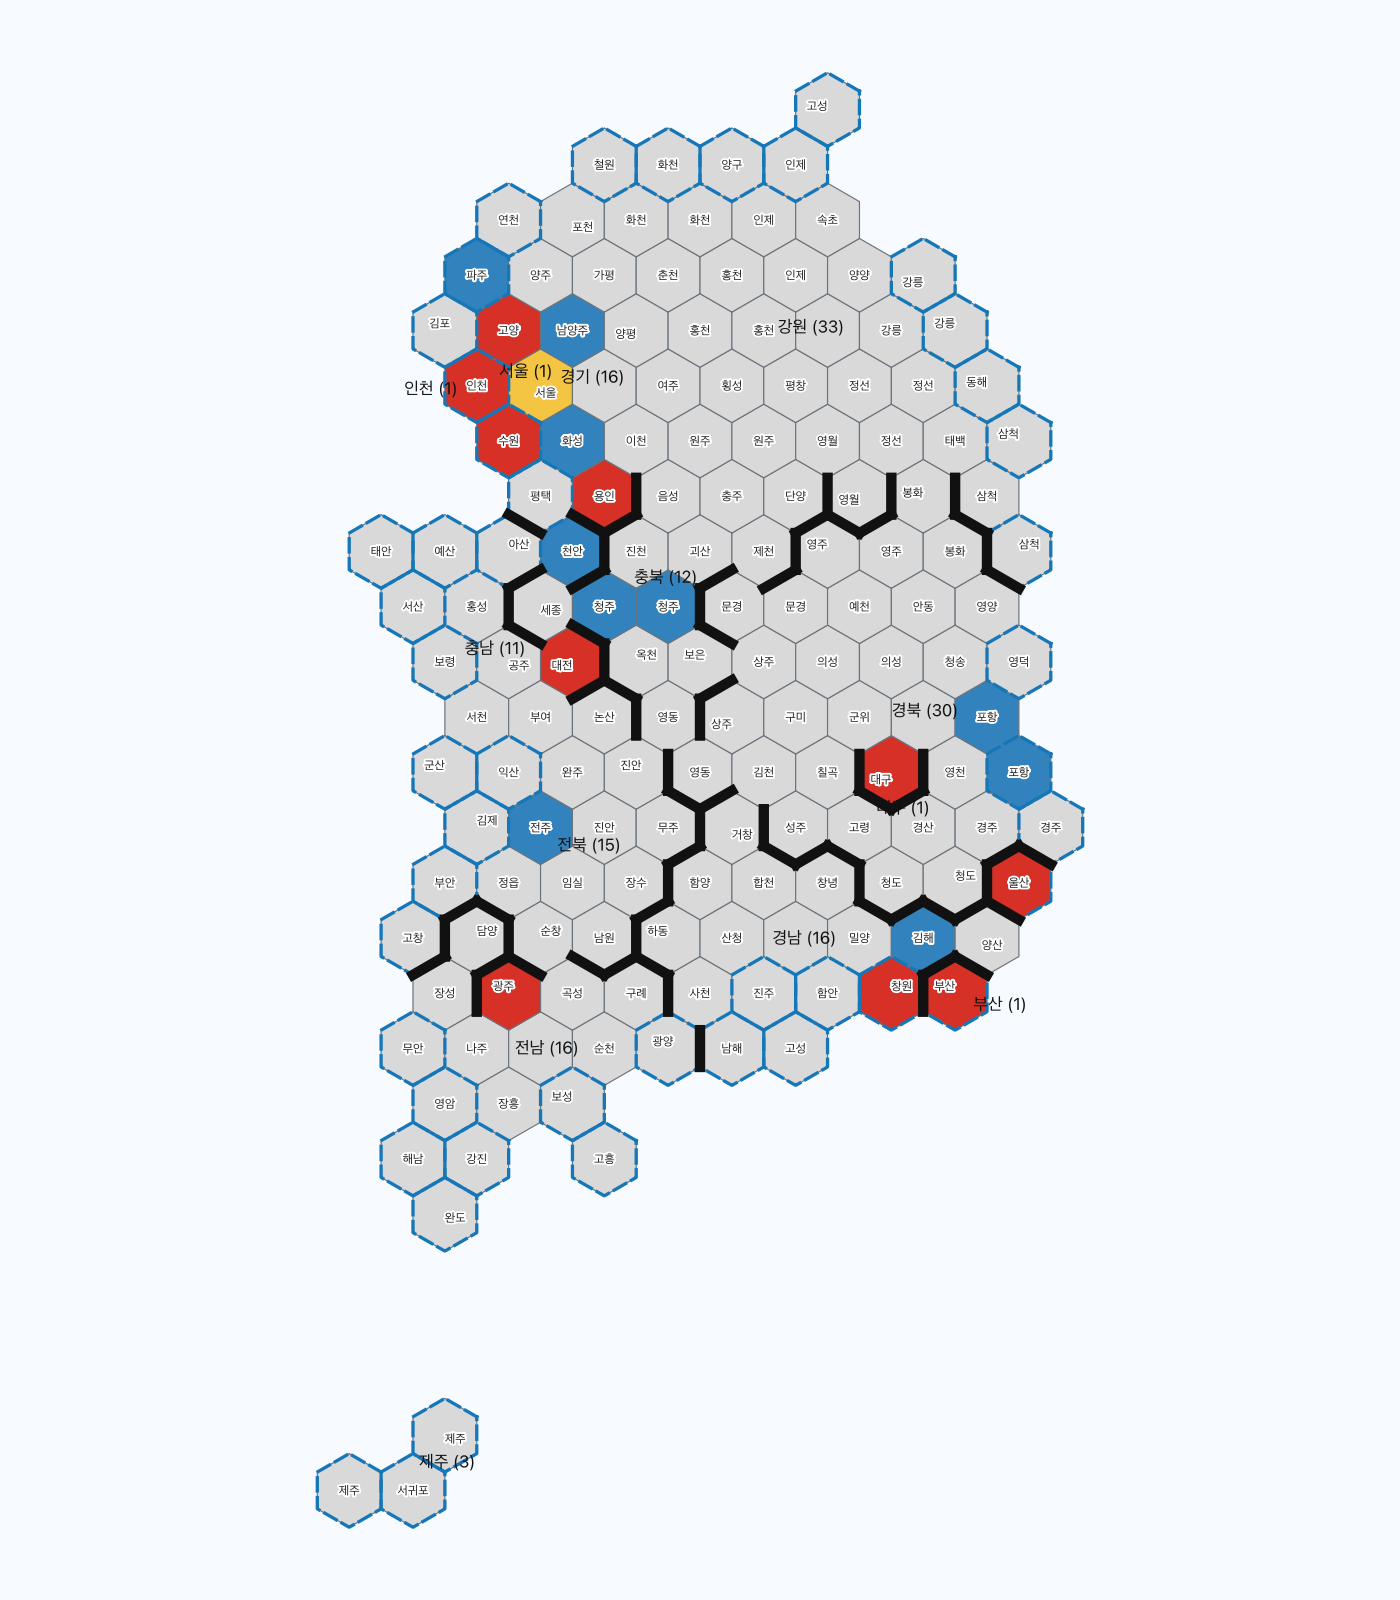
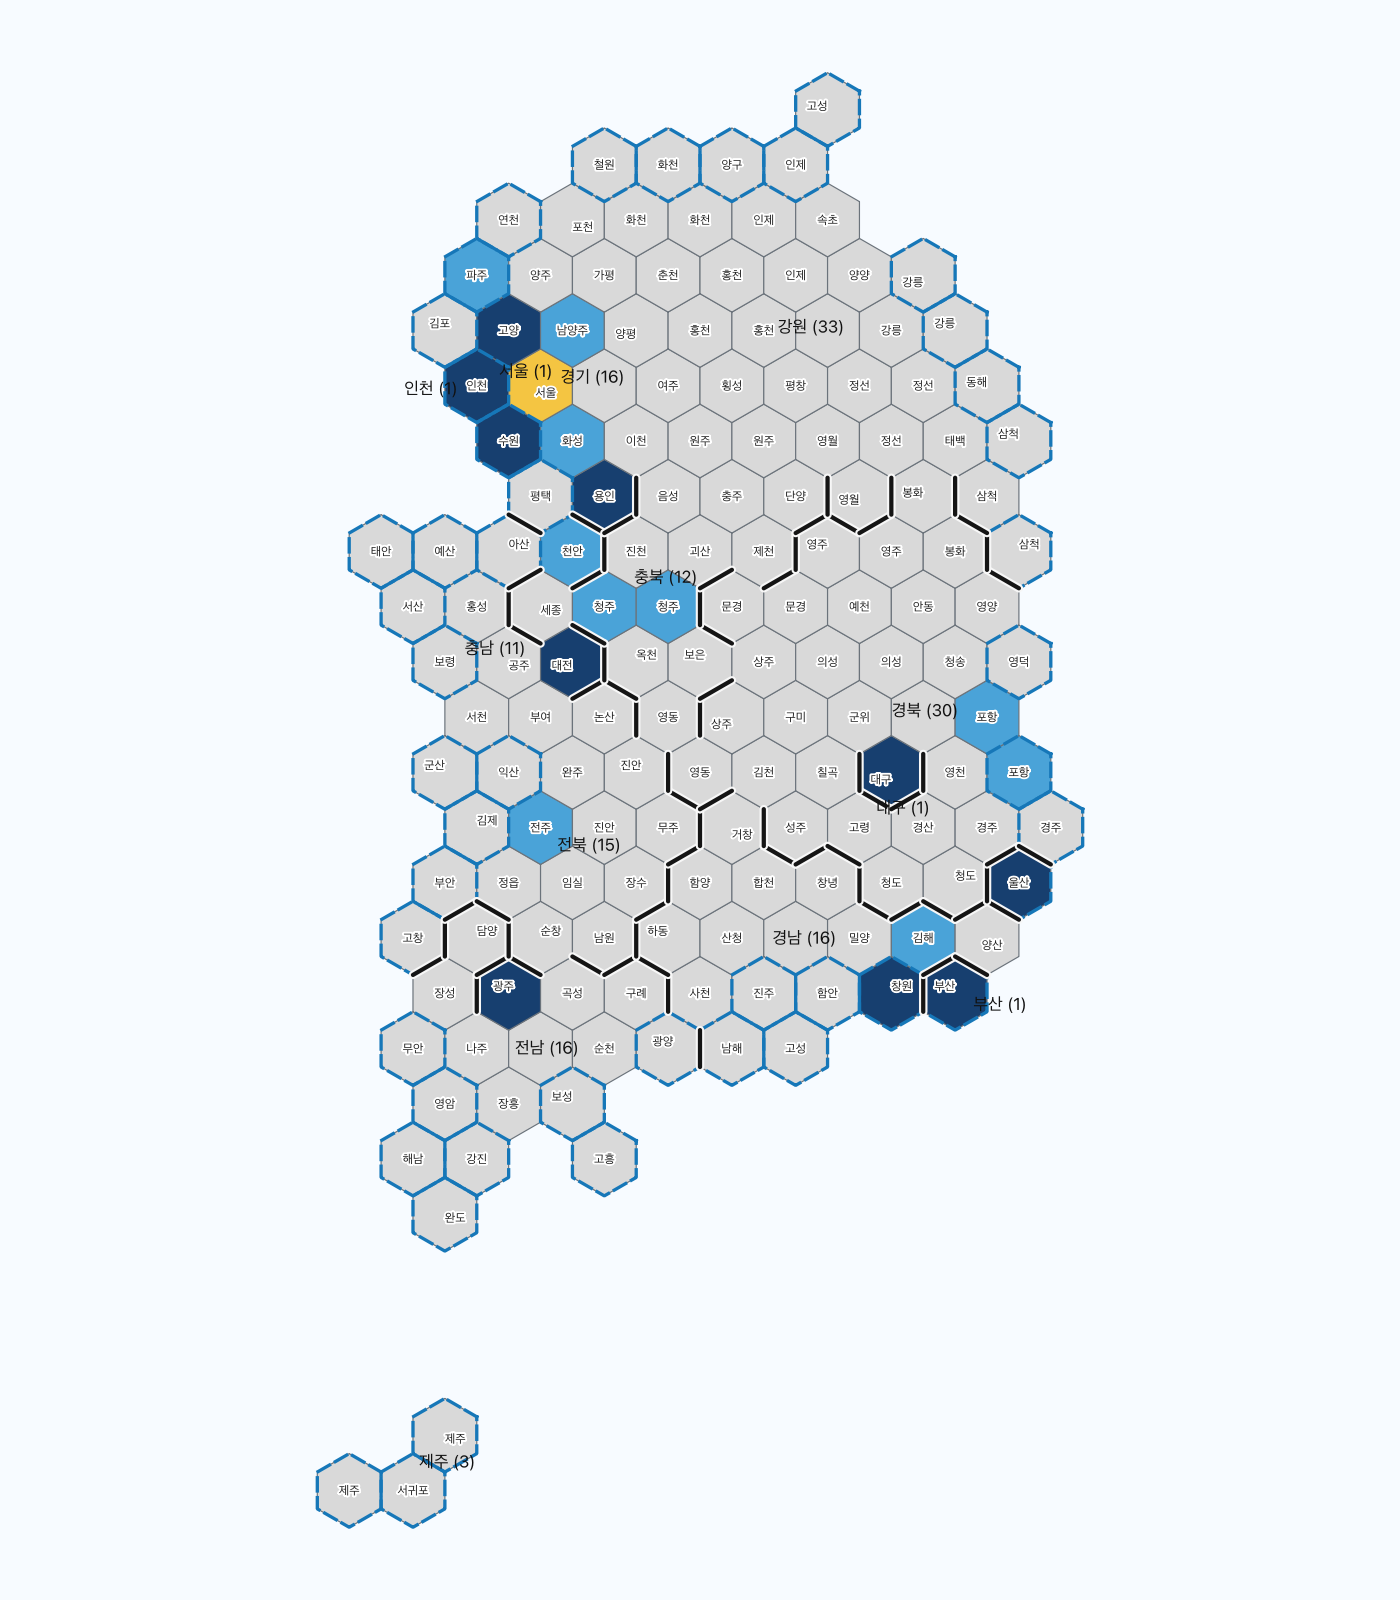
Render admin borders above tile fills

diff --git a/AtlasMap/scripts/validate_korea_map.py b/AtlasMap/scripts/validate_korea_map.py
@@ -332,6 +332,19 @@ class AtlasKoreaValidate(QgsProcessingAlgorithm):
             actual_map_classes == expected_map_classes,
             f"actual={sorted(actual_map_classes)}",
         )
+        colors = settings["city_classification"]["colors"]
+
+        def relative_luminance(hex_color):
+            values = [int(hex_color.lstrip("#")[i:i + 2], 16) / 255.0 for i in (0, 2, 4)]
+            linear = [value / 12.92 if value <= 0.04045 else ((value + 0.055) / 1.055) ** 2.4
+                      for value in values]
+            return 0.2126 * linear[0] + 0.7152 * linear[1] + 0.0722 * linear[2]
+
+        check(
+            "Metropolis fill darker than city fill",
+            relative_luminance(colors["metropolis"]) < relative_luminance(colors["city"]),
+            f"city={colors['city']}, metropolis={colors['metropolis']}",
+        )
 
         border_layer = QgsVectorLayer(
             f"{gpkg}|layername=admin1_tile_borders", "admin1_tile_borders", "ogr"
@@ -419,6 +432,7 @@ class AtlasKoreaValidate(QgsProcessingAlgorithm):
             re.compile(r"(?<![A-Za-z])[A-Za-z]:[\\/](?![\\/])[^\s<]+"),
         ]
         path_hits = []
+        border_above_tiles = False
         files_to_scan = sorted((root / "scripts").glob("*"))
         for path in files_to_scan:
             if not path.is_file():
@@ -433,10 +447,21 @@ class AtlasKoreaValidate(QgsProcessingAlgorithm):
                     if not member.endswith(".qgs"):
                         continue
                     text = archive.read(member).decode("utf-8", errors="replace")
+                    border_position = text.find('name="Game admin borders"')
+                    tile_position = text.find('name="Korea game tiles"')
+                    border_above_tiles = (
+                        border_position >= 0 and tile_position >= 0
+                        and border_position < tile_position
+                    )
                     for line_number, line in enumerate(text.splitlines(), 1):
                         if any(pattern.search(line) for pattern in absolute_patterns):
                             path_hits.append(f"{project_path.name}:{line_number}")
         check("Relative shared paths", not path_hits, f"absolute_path_hits={path_hits}")
+        check(
+            "Admin border layer renders above tile fills",
+            border_above_tiles,
+            f"border_above_tiles={border_above_tiles}",
+        )
 
         lines = [
             "# Atlas Korea validation report", "",

diff --git a/AtlasMap/scripts/build_korea_map.py b/AtlasMap/scripts/build_korea_map.py
@@ -38,6 +38,7 @@ from qgis.core import (
     QgsProperty,
     QgsRectangle,
     QgsRendererCategory,
+    QgsSimpleLineSymbolLayer,
     QgsSingleSymbolRenderer,
     QgsTextBufferSettings,
     QgsTextFormat,
@@ -1106,11 +1107,21 @@ class AtlasKoreaBuild(QgsProcessingAlgorithm):
                 )
             )
         )
-        persisted_borders.setRenderer(
-            QgsSingleSymbolRenderer(
-                QgsLineSymbol.createSimple({"line_color": "#111111", "line_width": "2.2"})
+        border_symbol = QgsLineSymbol.createSimple(
+            {
+                "line_color": "#f7f7f7", "line_width": "1.8",
+                "capstyle": "round", "joinstyle": "round",
+            }
+        )
+        border_symbol.appendSymbolLayer(
+            QgsSimpleLineSymbolLayer.create(
+                {
+                    "line_color": "#151515", "line_width": "0.9",
+                    "capstyle": "round", "joinstyle": "round",
+                }
             )
         )
+        persisted_borders.setRenderer(QgsSingleSymbolRenderer(border_symbol))
         persisted_coast.setRenderer(
             QgsSingleSymbolRenderer(
                 QgsLineSymbol.createSimple(
@@ -1167,11 +1178,11 @@ class AtlasKoreaBuild(QgsProcessingAlgorithm):
         project.addMapLayer(persisted_admin_labels, False)
         project.addMapLayer(persisted_borders, False)
         project.addMapLayer(persisted_coast, False)
-        game_group.addLayer(persisted_tiles)
-        game_group.addLayer(persisted_cities)
         game_group.addLayer(persisted_admin_labels)
+        game_group.addLayer(persisted_cities)
         game_group.addLayer(persisted_borders)
         game_group.addLayer(persisted_coast)
+        game_group.addLayer(persisted_tiles)
         project.addMapLayer(persisted_admin, False)
         project.addMapLayer(persisted_candidates, False)
         project.addMapLayer(persisted_naming, False)

diff --git a/AtlasMap/README.md b/AtlasMap/README.md
@@ -25,9 +25,11 @@ Remaining tiles use their largest-overlap same-owner unit. City class and
 capital color follow the final tile name, not an independently located point.
 
 The map uses exactly four tile fill classes: ordinary administrative tile,
-city (500,000-999,999), metropolis (1,000,000+), and capital. Ordinary tiles do
+light-blue city (500,000-999,999), dark-navy metropolis (1,000,000+), and
+gold capital. Ordinary tiles do
 not receive separate province colors. Thick dark lines between tiles with
-different `admin1_code` values carry the administrative-boundary information;
+different `admin1_code` values carry the administrative-boundary information.
+Those lines use a light casing plus a dark core and render above tile fills;
 thin tile outlines and dashed coastal outlines remain separate visual layers.
 
 ## Quick start (macOS)

diff --git a/AtlasMap/reports/validation_report.md b/AtlasMap/reports/validation_report.md
@@ -1,6 +1,6 @@
 # Atlas Korea validation report
 
-Generated: 2026-07-15T00:25:31.676424+00:00
+Generated: 2026-07-15T00:29:40.623723+00:00
 
 Overall result: **PASS**
 
@@ -30,6 +30,7 @@ Overall result: **PASS**
 | Exactly one capital tile | PASS | tiles=1, markers=1 |
 | City class follows final same-owner tile name | PASS | mismatches=[] |
 | Exactly four tile color classes | PASS | actual=['admin', 'capital', 'city', 'metropolis'] |
+| Metropolis fill darker than city fill | PASS | city=#4aa3d8, metropolis=#173f6f |
 | Admin borders separate different owners | PASS | segments=71, invalid=[] |
 | Valid geometries | PASS | invalid=[] |
 | Complete regular hexagons | PASS | invalid=[] |
@@ -39,6 +40,7 @@ Overall result: **PASS**
 | Neighbor IDs exist | PASS | missing=[] |
 | Neighbor symmetry | PASS | asymmetric=[] |
 | Relative shared paths | PASS | absolute_path_hits=[] |
+| Admin border layer renders above tile fills | PASS | border_above_tiles=True |
 
 ## Allocation
 

diff --git a/AtlasMap/reports/allocation_report.md b/AtlasMap/reports/allocation_report.md
@@ -1,6 +1,6 @@
 # Atlas Korea tile allocation report
 
-Generated: 2026-07-15T00:25:30.637882+00:00
+Generated: 2026-07-15T00:29:02.545705+00:00
 
 - Orientation: `pointy_top`
 - Final tiles: **160**